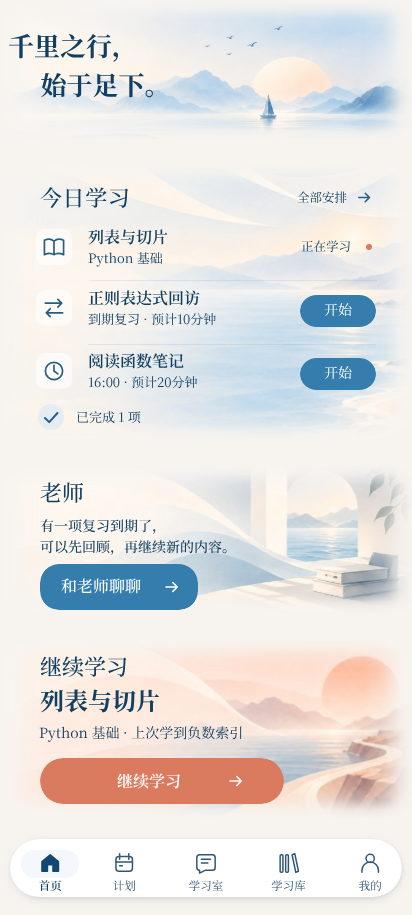
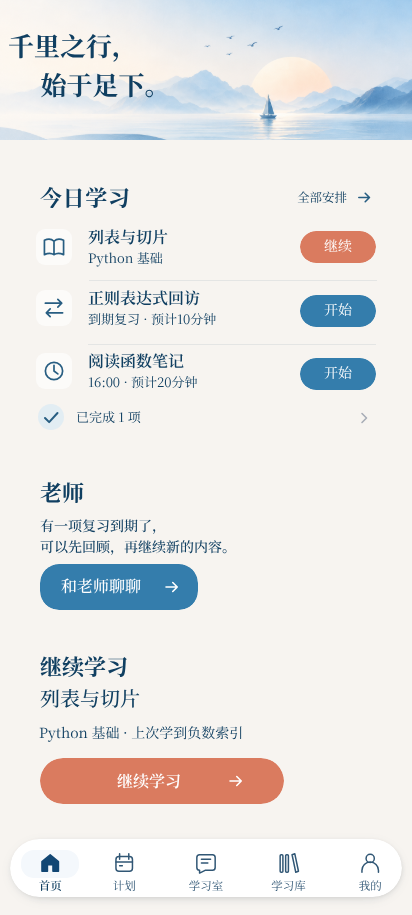
design: remove homepage feathering and add completed chevron

diff --git a/docs/progress/nautilus-development-status.md b/docs/progress/nautilus-development-status.md
@@ -4,15 +4,15 @@
 
 ## 当前结论
 
-当前UI/UX在“学海无涯UI/UX开发1”继续。作者仍觉得局部羽化/间距稿不够舒适，已亲自在Penpot把今日学习背景换为浅蓝海景，并要求提供用于更大范围UI探索的提示词。已只读核对最新共享稿，导出[本次重设计参考图](../superpowers/prototypes/home-material3/home-redesign-reference-20261011.png)，[当前手机版预览](../superpowers/prototypes/home-material3/home-mobile.png)同步本人换图后的画面。已确认探索约束：保留卡片式组织但组织方式可变，画面比例必须正确，底部导航保持原样，其余视觉可自由变化；旧32px羽化/24px间距不作为新探索的固定条件。本轮提供提示词，未执行新设计或生图。此前[冻结视觉基准](../superpowers/prototypes/home-material3/home-visual-baseline-20261011.png)保留为历史参照。
+当前UI/UX在“学海无涯UI/UX开发2”继续。作者提供水墨山水首页参考，仅要求去掉原有羽化、在今日学习底部“已完成 1 项”行右侧加箭头，不采用参考图中的图片。本轮已读取最新共享Penpot并完成两处修改：[当前预览](../superpowers/prototypes/home-material3/home-no-feather-completed-arrow-20261011.png)，home-mobile.png同步。页头及三卡共8个横/纵渐变蒙版改为不透明裁切，保留原窗口与图层；新增16×16灰色右向折线箭头，x356/y410。未改变现有图片填充、排版、文字、按钮、底栏或原阴影状态。
 
-共享Penpot文件New File 2（`52a5041f-08a1-80f1-8008-c26eb9cfe134`），工作页“首页 · Material 3”（`41874d1e-9f7d-8085-8008-c26f76ebe3f5`），手机画板`41874d1e-9f7d-8085-8008-c26fb8de5ff9`为412×915。当前页头y0/h140，今日y164/h278、老师y466/h148、续学y638/h180，三段间隔均24px；底栏容器y831/h84，续学底818。卡片前景x20/w372，背景蒙版x0/w412，左右羽化48px、上下统一32px。原三卡外阴影隐藏，文字/按钮不参与羽化。页头原图412×309、y=-8，按原4:3等比裁切到140px窗口，原标题x8/y25/w292/h78保持。今日背景已由作者更换为1448×1086浅蓝海景（图片名ChatGPT 图像 2026年10月11日 02_08_58.png），原图层尺寸562.999×422.249、x=-116.783/y=92.070及等比属性保持；老师与续学原4:3比例保持。底栏白色胶囊x10/y839/w392/h58，五入口及选中态为新探索的固定参照。
+共享Penpot仍为New File 2（`52a5041f-08a1-80f1-8008-c26eb9cfe134`）/“首页 · Material 3”（`41874d1e-9f7d-8085-8008-c26f76ebe3f5`）/手机画板`41874d1e-9f7d-8085-8008-c26fb8de5ff9`，412×915。页头y0/h140，今日y164/h278、老师y466/h148、续学y638/h180，三段24px；底栏y831/h84，白色胶囊x10/y839/w392/h58。最新实读中，今日、老师、续学三张原背景图层的填充在本轮修改前已为空，页头仍有山海图片；本轮保留此现状，未猜测原因或回填旧图。此前浅蓝海景及冻结视觉基准只作历史参考，不据旧记录覆盖作者手调。
 
-上一轮今日上缘80→32px，页头下缘沿用32px；页头窗口152→140px，今日/老师整体上移8/4px，续学及底栏不动，间隔20→24px。保留作者最新蓝色开始按钮、老师按钮158×46和续学暖橙按钮244×46，以及文字/字号/内部排版等手调。全树144节点核对无非预期变化，结构校验0错误；412×915原生导出已目视检查，冻结基准SHA256保持。保存“统一32px羽化及间距前 · 2026-10-11”和“交界统一32px羽化 · 三段24px间距 · 2026-10-11”快照。此前拱门、页头羽化、交界加宽和20px间距预览独立保留。下一项：作者用最新参考图及提示词开展整体探索，返回候选后再共同审阅；不自动覆盖Penpot或将候选视为已批准方案。
+检查：修改前143节点与修改后逐项核对，除8个蒙版填充/名称及新增箭头外无非预期变化；结构校验0错误，412×915导出已目视检查。已保存“移除羽化并补已完成箭头前 · 2026-10-11”和“首页去羽化与已完成右箭头 · 2026-10-11”快照，历史冻结预览保留。下一项：作者审阅当前去羽化及完成行箭头，等待具体反馈；不自动恢复卡片背景或推进整体重设计。
 
 [分层原型](../superpowers/prototypes/home-material3/continue-learning-motion.html)和[0.8秒同步过渡GIF](../superpowers/prototypes/home-material3/continue-learning-800ms-overlap.gif)已获作者认可；[卡片聚焦转场复用参考](../superpowers/specs/2026-10-10-nautilus-card-focus-motion.md)保留800ms同步过渡参数及取消/焦点/减少动态效果规则。原型/GIF保留认可时画面，不代表最新Penpot配图或正式学习室布局，业务UI未接入。卡片内容/顺序/背景可自定义的要求已记录，编辑交互、内容边界、增删与保存范围未定，尚未实现。三轮整页背景试稿保持撤回；[候选素材](../superpowers/prototypes/home-material3/today-background-options/)与市场界面调研继续保留为参考。
 
-当前仅412×915首页设计试稿；业务UI/其他页面、响应式、小米13真机适配及客户端迁移未完成。仅主Agent，本轮只读Penpot并导出最新参考、提供提示词，无画布修改、新生图、子代理、业务代码、数据库迁移、试用服务或安装包变化。素材与旧参考仍存于`docs/superpowers/prototypes/home-mist-sea/`，旧512×768导出是历史产物。
+当前仅412×915首页设计试稿；业务UI/其他页面、响应式、小米13真机适配及客户端迁移未完成。仅主Agent，本轮修改Penpot羽化与完成行箭头并导出预览；无新生图、子代理、业务代码、数据库迁移、试用服务或安装包变化。素材与旧参考仍存于`docs/superpowers/prototypes/home-mist-sea/`，旧512×768导出是历史产物。
 
 10-08流式恢复与等待修复已启用原trial049：接收积压同步完整当前快照后继续，不再作为生成失败；兼容旧服务的订阅错误自动重连，重连不重发问题。当前使用的提供方整轮总等待已按作者确认从60秒改为600秒，连续无新数据60秒仍停止；当前模型/思考/密钥版本与旧回答配置已核对保持。外部TLS/协议读取异常仍可能发生，不把本地修复宣称为网络已稳定。 同日首可见反馈补修也已启用：发送成功立即订阅，状态/路径元数据后台刷新，不再阻塞首段接收或覆盖新内容；准备/等待模型/实际思考/正文按真实阶段呈现，并记录内容脱敏的分段耗时。
 
@@ -1220,3 +1220,5 @@ Planner对R1的增量复审只确认两组剩余阻塞（C1/C2），均在既有
 - 2026-10-11：作者确认交界两侧统一32px羽化并重调间距。今日上缘80→32px，页头窗口152→140px，今日/老师上移8/4px至y164/466，续学y638和底栏y831保持，三段24px。144节点核对无非预期变化、结构校验0错误、412×915导出目视通过，保存前后快照。更新home-mobile.png、新增home-unified-feather-spacing-preview.png和进度/决定文档，冻结基准校验保持；无生图/子代理/业务/迁移/服务变动。下一项作者审阅本试稿，本地提交不push。
 
 - 2026-10-11：作者反馈局部修改仍不舒适，已本人更换今日背景，并要求更大范围UI改进提示词。只读核对新浅蓝海景与原412×915/白色五入口底栏，导出home-redesign-reference-20261011.png并同步home-mobile.png。确认卡片保留/组织可变、正确比例、导航固定，其余视觉自由；记录为探索范围，不批准具体重设计。无画布改动/生图/业务/迁移/服务变化；下一项作者返回候选共同审阅，本地提交不push。
+
+- 2026-10-11：UI/UX开发2按作者指定的两项修改取消页头/三卡羽化、新增完成行右箭头，保留实读最新共享稿及空的三卡背景填充。143旧节点核对无非预期变化、结构校验0错误、412×915导出目视检查，保存前后命名快照；修改两份进度/决定文档、home-mobile.png及新增home-no-feather-completed-arrow-20261011.png。无业务/迁移/服务变化；下一项作者审阅，本地提交不push。
